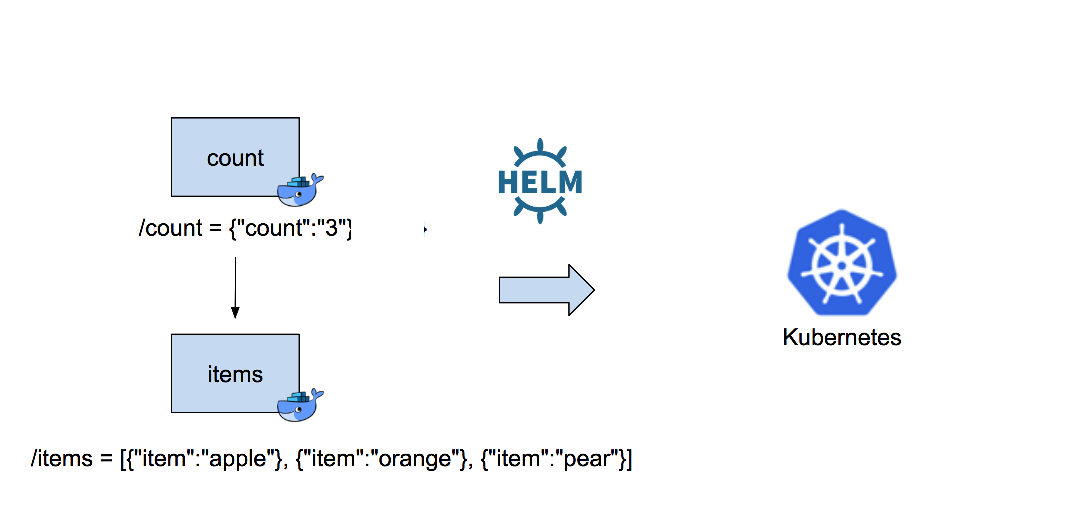
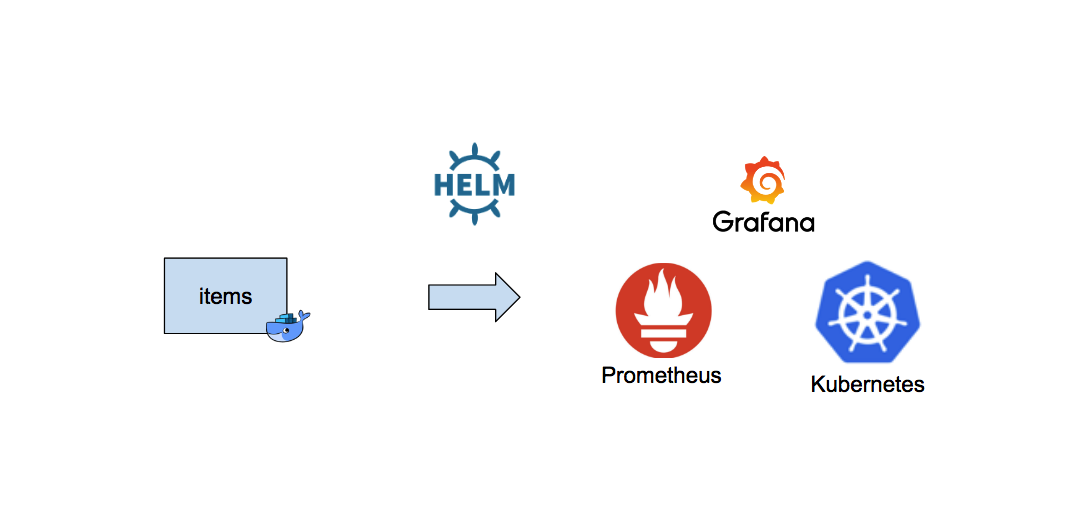
updated readme
updated readme

diff --git a/README.md b/README.md
@@ -1,12 +1,12 @@
-# prometheus
+# metrics-tutorial
 This tutorial will walk through the following:
 - install promethus & grafana using helm
-- add metrics to your service
-- monitor SLI and SLO from grafana
+- add metrics to a docker service and deploy it to kubernetes
+- monitor the service from grafana
 
 **Prerequisites**: install docker, Kubernetes and helm and clone repo.
 
-![Prometheus Tutorial](./tutorial.png)
+![Metrics Tutorial](./tutorial.png)
 
 
 ```
@@ -34,8 +34,7 @@ prometheus-server-6966b574d7-6tm8g               1/2       Running   0          
 $ kubectl port-forward prometheus-server-6966b574d7-6tm8g 9090
 Forwarding from 127.0.0.1:9090 -> 9090
 ```
-
-http://localhost:9090/graph
+> Browse to http://localhost:9090/graph to see Prometheus
 
 
 ```
@@ -65,9 +64,15 @@ $ kubectl get secret --namespace default grafana -o jsonpath="{.data.grafana-adm
 xxxxxxxx
 ```
 
+> Browse to http://localhost:3000 to see Grafana
 
 
-Build the docker image locally which contains two services:
+Configure Grafana to connect to Prometheus:
+
+![New Data Source](./new-data-source.png)
+
+
+Build the docker image locally which contains the service we want to monitor:
 ```
 $ make build-docker
 ./build-docker.sh metrics-tutorial latest Dockerfile
